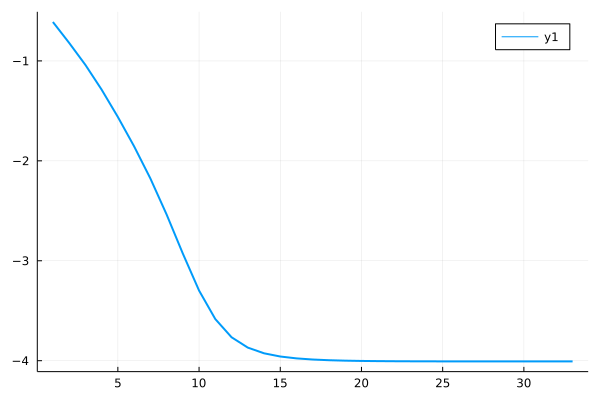
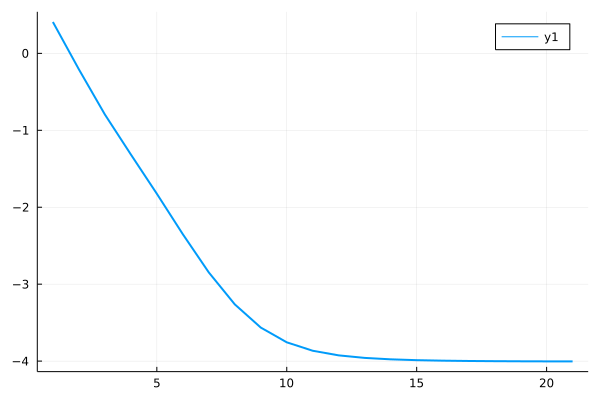
updated Adam and learning rate algorithm

diff --git a/main.py b/main.py
@@ -89,11 +89,10 @@ def compute_difference(n, g, J, l, paraList, ifapply):
         pre_energy = cal_energy(n, g, J, l, paraList, ifapply)
         paraList[i] += 1e-7
         energy = cal_energy(n, g, J, l, paraList, ifapply)
-        diff = (energy-pre_energy)/1e-7
+        diff = (energy - pre_energy) / 1e-7
         result.append(diff)
         paraList[i] -= 1e-7
     return result
-
 
 
 def compute_derivative(n, g, J, l, paraList, ifapply):
@@ -116,13 +115,21 @@ def compute_derivative(n, g, J, l, paraList, ifapply):
     return result
 
 
-def updateTheta(n, g, J, l, paraList, h, ifapply):
-    # der = compute_derivative(n, g, J, l, paraList, ifapply)
-    diff = compute_difference(n, g, J, l, paraList, ifapply)
-    # print(der)
-    # print(diff)
+def updateTheta(n, g, J, l, paraList, step, h, ifapply):
+    # Adam
+    beta1 = 0.9
+    beta2 = 0.999
+    eps = 1e-8
+    m = [0. for _ in range(len(paraList))]
+    v = [0. for _ in range(len(paraList))]
+    grad = compute_difference(n, g, J, l, paraList, ifapply)
+    print(step, " grad: ", grad)
     for i in range(len(paraList)):
-        paraList[i] -= h * diff[i]
+        m[i] = beta1 * m[i] + (1 - beta1) * grad[i]
+        v[i] = beta2 * v[i] + (1 - beta2) * grad[i] ** 2
+        mhat = m[i] / (1.0 - beta1 ** (step + 1))
+        vhat = v[i] / (1.0 - beta2 ** (step + 1))
+        paraList[i] = paraList[i] - h * mhat / (sqrt(vhat) + eps)
 
 
 def decayed_learning_rate(h, decay_rate, global_step, decay_step):
@@ -142,21 +149,24 @@ def cal_energy(n, g, J, l, paraList, ifapply):
     return jl.calc_energy("../../test.txt", ifapply)
 
 
-def optimize_theta(n, g, J, l, paraList, loop, epsi, ifapply):
-    pre_energy = cal_energy(n, g, J, l, paraList, ifapply)
+def optimize_theta(n, g, J, l, paraList, loop, epsi, ifapply, pre_energy=999):
     energy = 999
+    h = 0.5
     for i in range(loop):
-        updateTheta(n, g, J, l, paraList, decayed_learning_rate(0.1, 0.98, ifapply + i, 1000), ifapply)
+        updateTheta(n, g, J, l, paraList, i, decayed_learning_rate(h, 0.5, i, 50), ifapply)
         energy = cal_energy(n, g, J, l, paraList, ifapply)
+        if pre_energy - energy < 0:
+            h *= 0.5
+            print("learning rate: ", h)
         if abs(energy - pre_energy) < epsi:
             return energy, i
-        print(i, energy)
+        print(i, ": ", energy)
         pre_energy = energy
     return energy, loop
 
 
 def main_loop():
-    n = 4  # qubits
+    n = 6  # qubits
     g = 10  # parameter of Ising
     J = 0.1  # parameter of Ising
     l = 1  # layers
@@ -166,16 +176,17 @@ def main_loop():
     phi = []
     # parameter for TN
     n_theta = UniTN_1d_para_cnt(n, l, 3)  # nums of parameters
-    theta = [random.uniform(1, 10) for i in range(n_theta)]
+    theta = [random.uniform(0, np.pi * 2) for i in range(n_theta)]
     pre_TN = 999
     pre_quantum = 999
     print(cal_energy(n, g, J, l, theta, 0))
     for i in range(20):
         print('------- loop', i, '--------')
-        energy_TN = optimize_theta(n, g, J, l, theta, 500, 1e-5, i)
+        energy_TN = optimize_theta(n, g, J, l, theta, 500, 1e-5, i, pre_quantum)
         energy_quantum = optimize_energy(n, g, J, l, theta)
-        if abs(energy_TN[0] - pre_TN) + abs(energy_quantum[0] - pre_quantum) < 1e-5:
-            print("Final energy & overall loop: ", energy_quantum[0], " ", i)
+        if energy_TN[0] > pre_TN or energy_quantum[0] > pre_quantum or energy_TN[0] > pre_quantum or energy_quantum[
+            0] > pre_TN:
+            print("Final energy & overall loop: ", min(energy_TN[0], pre_TN, pre_quantum, energy_quantum[0]), " ", i)
             return
         else:
             print("TN: ", energy_TN)

diff --git a/HamTN_3_para.py b/HamTN_3_para.py
@@ -7,7 +7,7 @@ from Pauli_Expectation import *
 import time
 
 
-random.seed(10)
+# random.seed(10)
 from typing import List, Tuple
 import itertools
 import scipy.integrate as integrate
